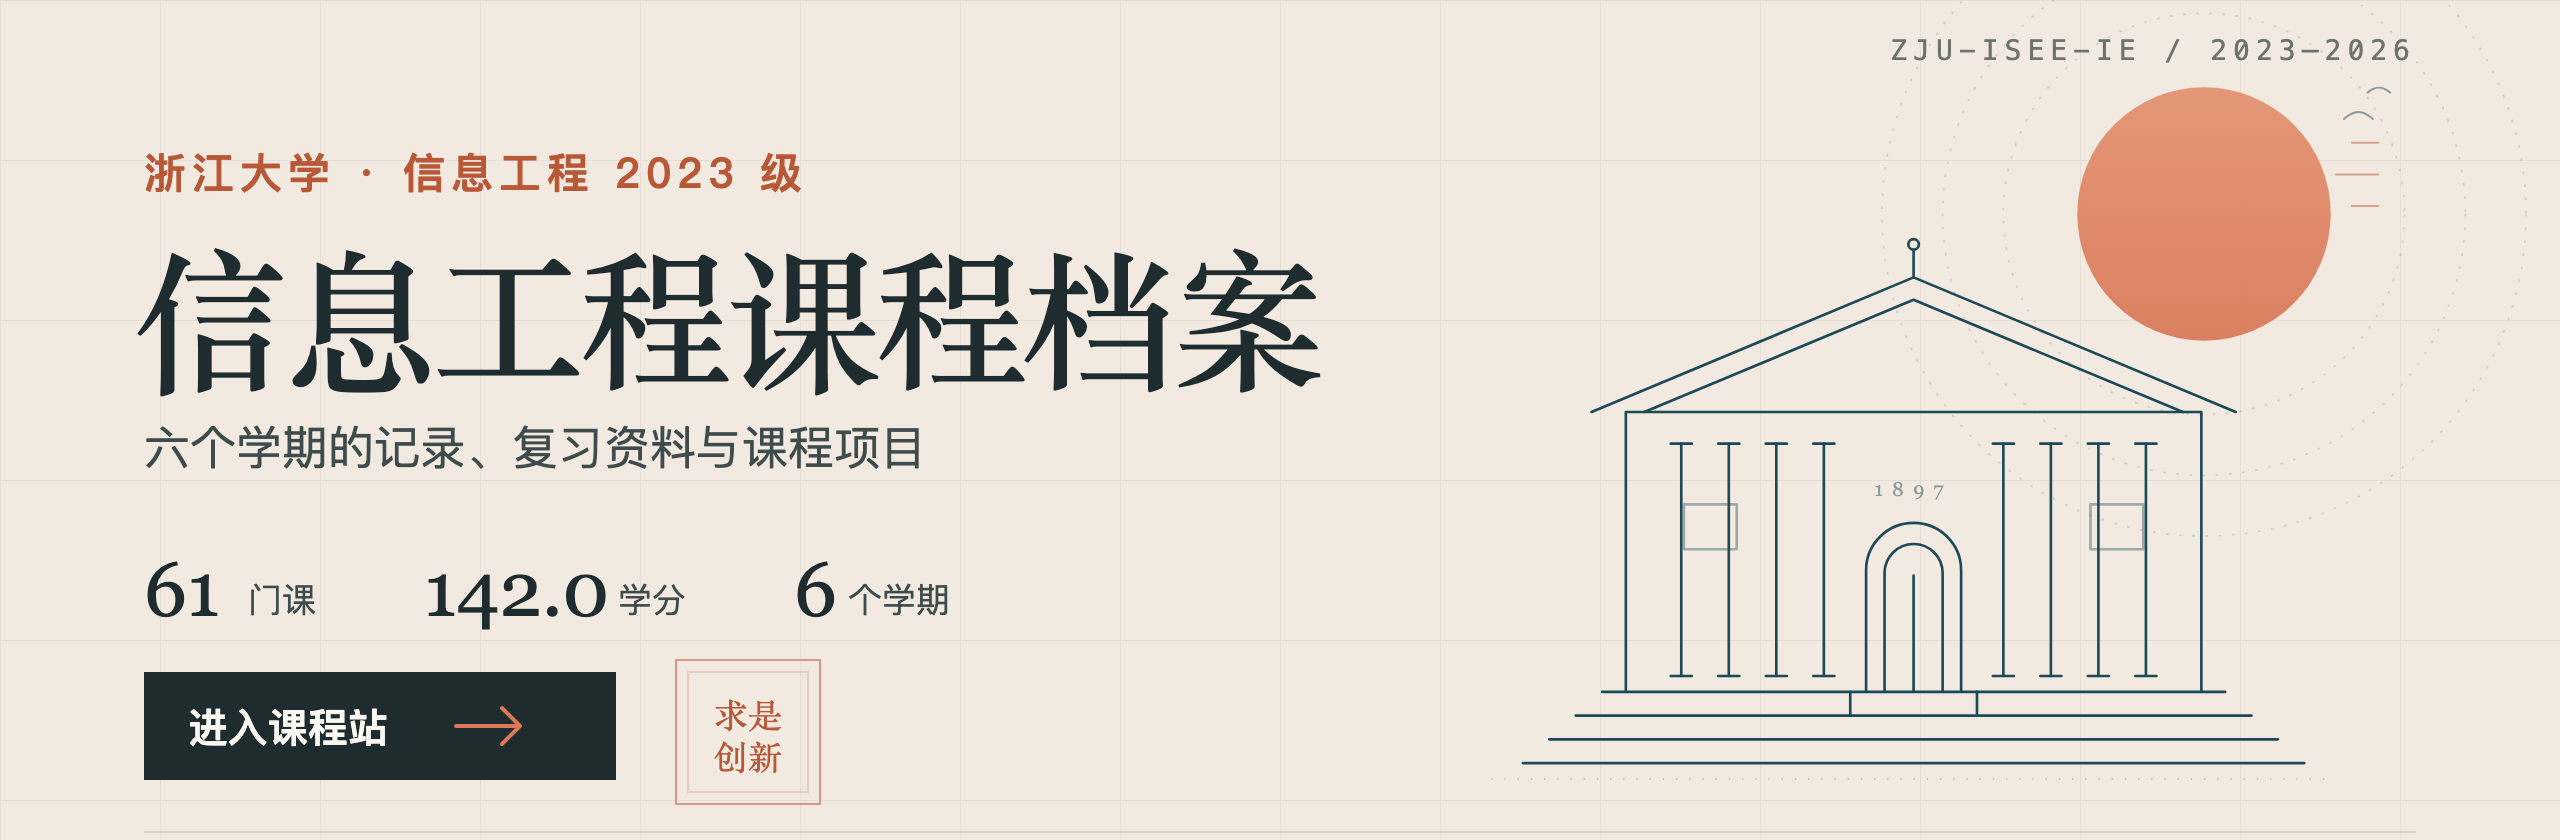
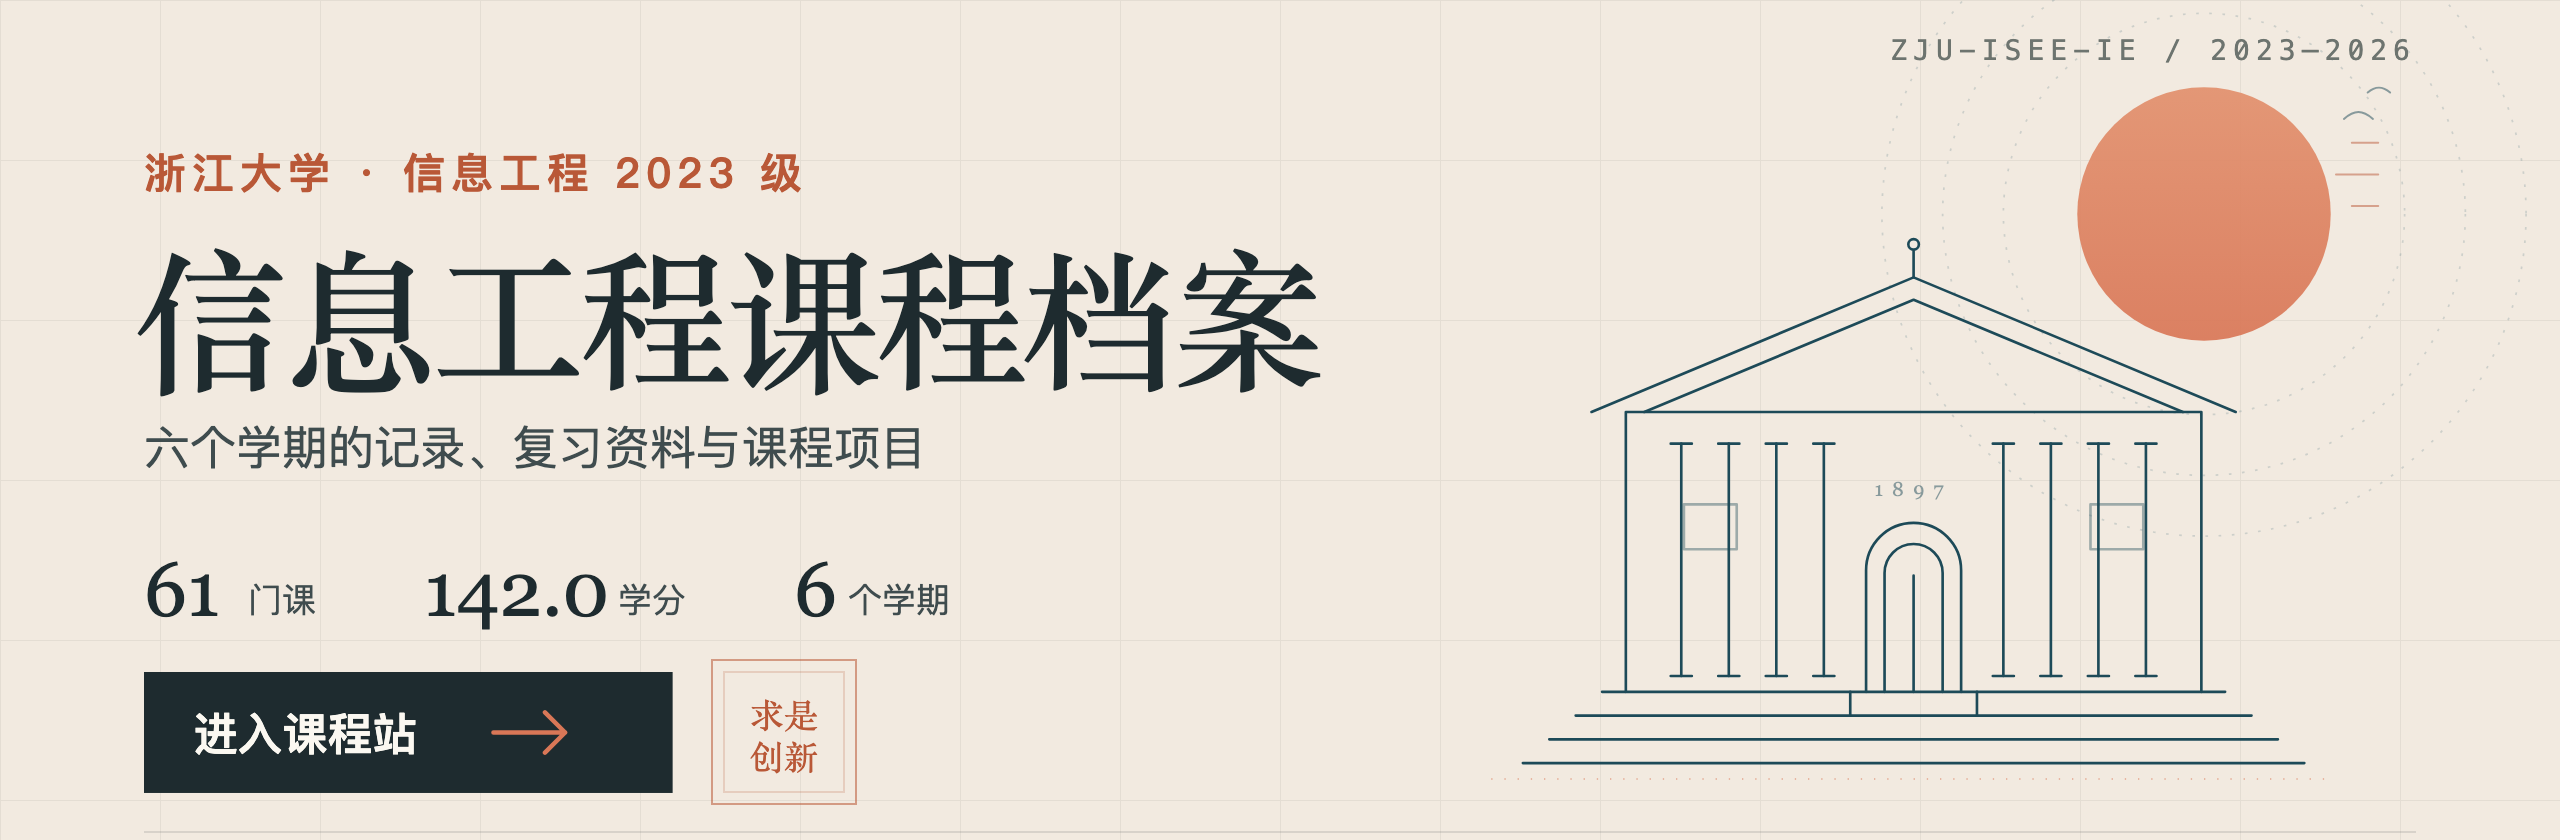
README 去掉重复入口，放大横幅内的进入按钮

Changed region(s): [[0.0625, 0.7738, 0.3438, 0.9595]]

diff --git a/README.md b/README.md
@@ -1,8 +1,6 @@
 <div align="center">
 
-<a href="https://ancher-puppet.github.io/ZJU-ISEE-IE/"><img src="assets/readme-hero.png" alt="信息工程课程档案：浙江大学信息工程 2023 级，61 门课，142.0 学分" width="100%"></a>
-
-# [✨ 打开信息工程课程站 →](https://ancher-puppet.github.io/ZJU-ISEE-IE/)
+<a href="https://ancher-puppet.github.io/ZJU-ISEE-IE/"><img src="assets/readme-hero.png?v=2" alt="信息工程课程档案：浙江大学信息工程 2023 级，61 门课，142.0 学分" width="100%"></a>
 
 **🎓 61 门课 · ⚡ 142.0 学分 · 🗓 6 个学期**，左边读记录，右边翻文件。
 
